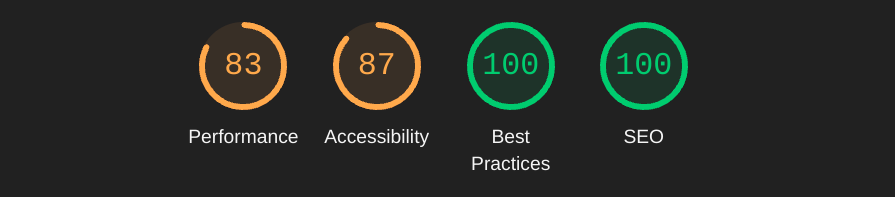
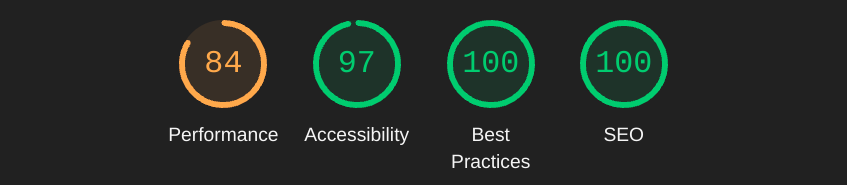
Updated README and few final issues

diff --git a/templates/mybookings.html b/templates/mybookings.html
@@ -9,13 +9,13 @@
       <div class="col mt-5 ">
         <div class="jumbotron jumbo-height">
           <h1 class="display-4"> <span class="blue-text">My </span>Bookings</h1>
-          <p>Here, you can find your bookings. If you need to make any changes to, or delete, your booking, please do this below.</p>
+          <p>Here, you can find your bookings. If you need to edit or delete your booking, please do this below.</p>
           <hr class="my-4 blue-text">
           <!-- Displays all the reservations of the user-->
           {% for reservation in reservations%}
           <div class="accordion" id="accordionExample">
             <div class="card">
-              <div class="card-header" id="headingOne">
+              <div class="card-header headingOne">
                 <h2 class="mb-0">
                   <button class="btn btn-block text-left" type="button" data-toggle="collapse"
                     data-target="#collapse{{ forloop.counter }}" aria-expanded="true">
@@ -43,13 +43,13 @@
               <div class="modal-dialog">
                 <div class="modal-content">
                   <div class="modal-header">
-                    <h5 class="modal-title" id="staticBackdropLabel">Delete booking</h5>
+                    <h5 class="modal-title staticBackdropLabel" id="">Delete booking</h5>
                     <button type="button" class="close" data-dismiss="modal" aria-label="Close">
                       <span aria-hidden="true">&times;</span>
                     </button>
                   </div>
                   <div class="modal-body">
-                    Are you sure you want to delete your reservation?
+                    Are you sure you want to delete your booking?
                   </div>
                   <div class="modal-footer">
                     <a href="/delete_booking/{{ reservation.id }}" class="btn btn-danger">

diff --git a/templates/base.html b/templates/base.html
@@ -63,7 +63,7 @@
                             <a class="nav-link" href="{% url 'account_signup' %}">Sign Up</a>
                         </li>
                         <li class="nav-item">
-                            <a class="nav-link" href="{% url 'account_login' %}">Login</a>
+                            <a class="nav-link" href="{% url 'account_login' %}">Sign In</a>
                         </li>
                         {% endif %}
                     </ul>

diff --git a/templates/edit_booking.html b/templates/edit_booking.html
@@ -20,7 +20,7 @@
                       {{ form.as_p }}
                       <div>
                         <p>
-                          <button type="submit" class="btn btn-dark">Edit Booking</button>
+                          <button type="submit" class="btn btn-blue">Edit Booking</button>
                         </p>
                       </div>
                     </form>

diff --git a/templates/table_booking.html b/templates/table_booking.html
@@ -21,7 +21,7 @@
                       {{ form.as_p }}
                       <div>
                         <p>
-                          <button type="submit" class="btn btn-dark">Book!</button>
+                          <button type="submit" class="btn btn-blue">Book!</button>
                         </p>
                       </div>
                     </form>

diff --git a/README.md b/README.md
@@ -6,8 +6,8 @@ The live site can be found here [Fats n Babs](https://fatsnbabs-216f47f1be28.her
 
 Fats n Babs is a local cafe & restaurant which serves a variety of Pakistani and British food.
 
-This site is designed to facilitate the process of making reservations and managing bookings at the restaurant. It streamlines the reservation process for users, improving efficiency and user experience. 
-The booking system provides an easy-to-use interface for users to make reservations. users can select the date, time, and party size for their reservation. The system checks the restaurant's availability for the specified date and time. If there is a table available, the user receives an immediate confirmation.
+This site is designed to facilitate the process of making booking and managing bookings at the restaurant. It streamlines the booking process for users, improving efficiency and user experience. 
+The booking system provides an easy-to-use interface for users to make booking. users can select the date, time, and party size for their booking. The system checks the restaurant's availability for the specified date and time. If there is a table available, the user receives an immediate confirmation.
 Users are able to manage their bookings once they are logged in to amend the date, time or number of seats. They are also able to delete their bookings.
 
 ## CONTENTS
@@ -83,7 +83,7 @@ I then moved onto the next set of tasks and followed the same steps until all th
 
 # Design
 
-## Colour Scheme#
+## Colour Scheme
 
 ![Colour Palette](/media/images/fatsnbabs-palette.png)
 
@@ -273,12 +273,12 @@ Sign Out:
 Two models were created for this project:
 
 ### Table:
-  - To handle the tables in tbe restaurant - so users can choose how many people the booking is for and so the system can check to make sure no double booking occurs.
+  - To handle the tables in the restaurant - so users can choose how many people the booking is for and so the system can check to make sure no double booking occurs.
 
 ### Reservation:
   - To handle the booking process - defines the 4 key factors when a user requests a booking:
     * Client (User)
-    * Table
+    * Table - taken from Table model
     * Date
     * Time
 
@@ -293,10 +293,10 @@ Two models were created for this project:
 
 ## Frameworks, Libraries & Programs Used:
 * Bootstrap - The framework for the website. Code for the navbar, carousel, cards and form were used and modified. Additional CSS styling was also implemented in style.css.
-* Cloudinary - Used to host background images.
+* Cloudinary - Used to host background images for the homepage and menu page.
 * Django (inlcuding Allauth) - django framework used to build the site. Allauth used for login/sign up/sign out functions.
-* ElephantSQL - Database management.
-* Font Awesome - Icons used in the site.
+* ElephantSQL - Database management site used.
+* Font Awesome - Icons used for this project.
 * Git - GitHub & GitPod used for workspace management.
 * Google Fonts - Used for the fonts on the site.
 * Heroku - Used for deployment.
@@ -388,7 +388,7 @@ I used the [PEP8 Python Linter](https://pep8ci.herokuapp.com/) to check my Pytho
 
 ### TDD
 
-Some automated testing was used on the form. 
+Some automated testing was used on the form. These can be found in test_form.py
 
 ### Manual Testing
 
@@ -428,7 +428,7 @@ Carrousel | The links in the carousel are functional and take the user to the co
 | Responsiveness | All elements on the page have been checked to ensure consistent scalability across mobile, tablet, and desktop views.| PASS |
 | Accessibility |The accessibility of the page has been checked using Lighthouse.| PASS |
 | Form | Checked the form submits only when all required fields are filled out. | PASS |
-| Date | When the calendar is clicked, it is loaded quicklly and smoothly and is responsive. | PASS |
+| Date | When the calendar is clicked, it is loaded quickly and smoothly and is responsive. | PASS |
 | Time | The Time dropdown correctly shows the times selection from the model | PASS |
 
 ![Lighthouse Booking](/media/lighthouse/lighthouse-booking.png)
@@ -437,11 +437,11 @@ Carrousel | The links in the carousel are functional and take the user to the co
 | TEST | OUTCOME |PASS / FAIL |
 | :--- | :--- | :--- |
 | Responsiveness | All elements on the page have been checked to ensure consistent scalability across mobile, tablet, and desktop views.| PASS |
-| Accessibility |The accessibility of the page has been checked using Lighthouse.| PASS |
-| Dropdown | Clicking on a reservation activates the dropdown, showing the edit and delete buttons. | PASS |
+| Accessibility |The accessibility of the page has been checked using Lighthouse. | PASS |
+| Dropdown | Clicking on a booking activates the dropdown, showing the edit and delete buttons. | PASS |
 | Edit |Clicking on the edit button takes you to the edit page. | PASS |
 | Delete |When the delete button is clicked, a modal appears to confirm the action before it is executed. | PASS |
-| No reservation |A button linking to the Book a Table page is present and functional.| PASS |
+| No booking |A button linking to the Book a Table page is present and functional.| PASS |
 
 ![Lighthouse Manage](/media/lighthouse/lighthouse-mybookings.png)
 
@@ -498,12 +498,19 @@ Carrousel | The links in the carousel are functional and take the user to the co
     * Error message was stating "Not Found: /static/css/styles.css" 
     * After troubleshooting and Googling I found this [Slack thread](https://code-institute-room.slack.com/archives/C026PTF46F5/p1688850855667969)- I installed Whitenoise which resolved the issue
 
+* | Accessibility on My Bookings page was low due to id being used twice.
+    * Issue resolved. Removed id from one of the divs
+
+ 
+
 * Book a Table form was not submitting.
     * Human error - closing form tag had been deleted.
 
 ### Unfixed Bugs
 
-No outstanding bugs.
+* Lunch menu on mobile device is longer than I wanted.
+    * Attempted to fix, but it pushed all other items on screen away.
+    * Kept as is, as the menu is still readable and easy to navigate - just a cosmetic issue.
 
 # Credits
 
@@ -513,5 +520,10 @@ No outstanding bugs.
 * CI Module [I Think Therefore I Blog](https://github.com/Code-Institute-Solutions/Django3blog/tree/master/12_final_deployment) for really helping me understand models in django.
 * [Geeks for Geeks](https://www.geeksforgeeks.org/form-as_p-render-django-forms-as-paragraph/) used when researching how to create a form from a django model.
 * https://www.youtube.com/watch?v=gpTrmDpadZY - to help me understand email notifications through Django - did not end up using.
-* As always - my mentor, Jubril Akolade, for all his help and patience in helping me with this project.
 * Tutor Support - for clearing up some points to do with the assesment criteria.
+* My wife for the menu and restaurant idea.
+
+## Media Used
+
+* https://timesofindia.indiatimes.com/life-style/food-news/how-to-make-masala-chai-at-home/articleshow/69027092.cms for Menu Background
+* https://lovelaughmirch.com/indian-afternoon-tea-menu-ideas-recipes/ for Homepage Background
